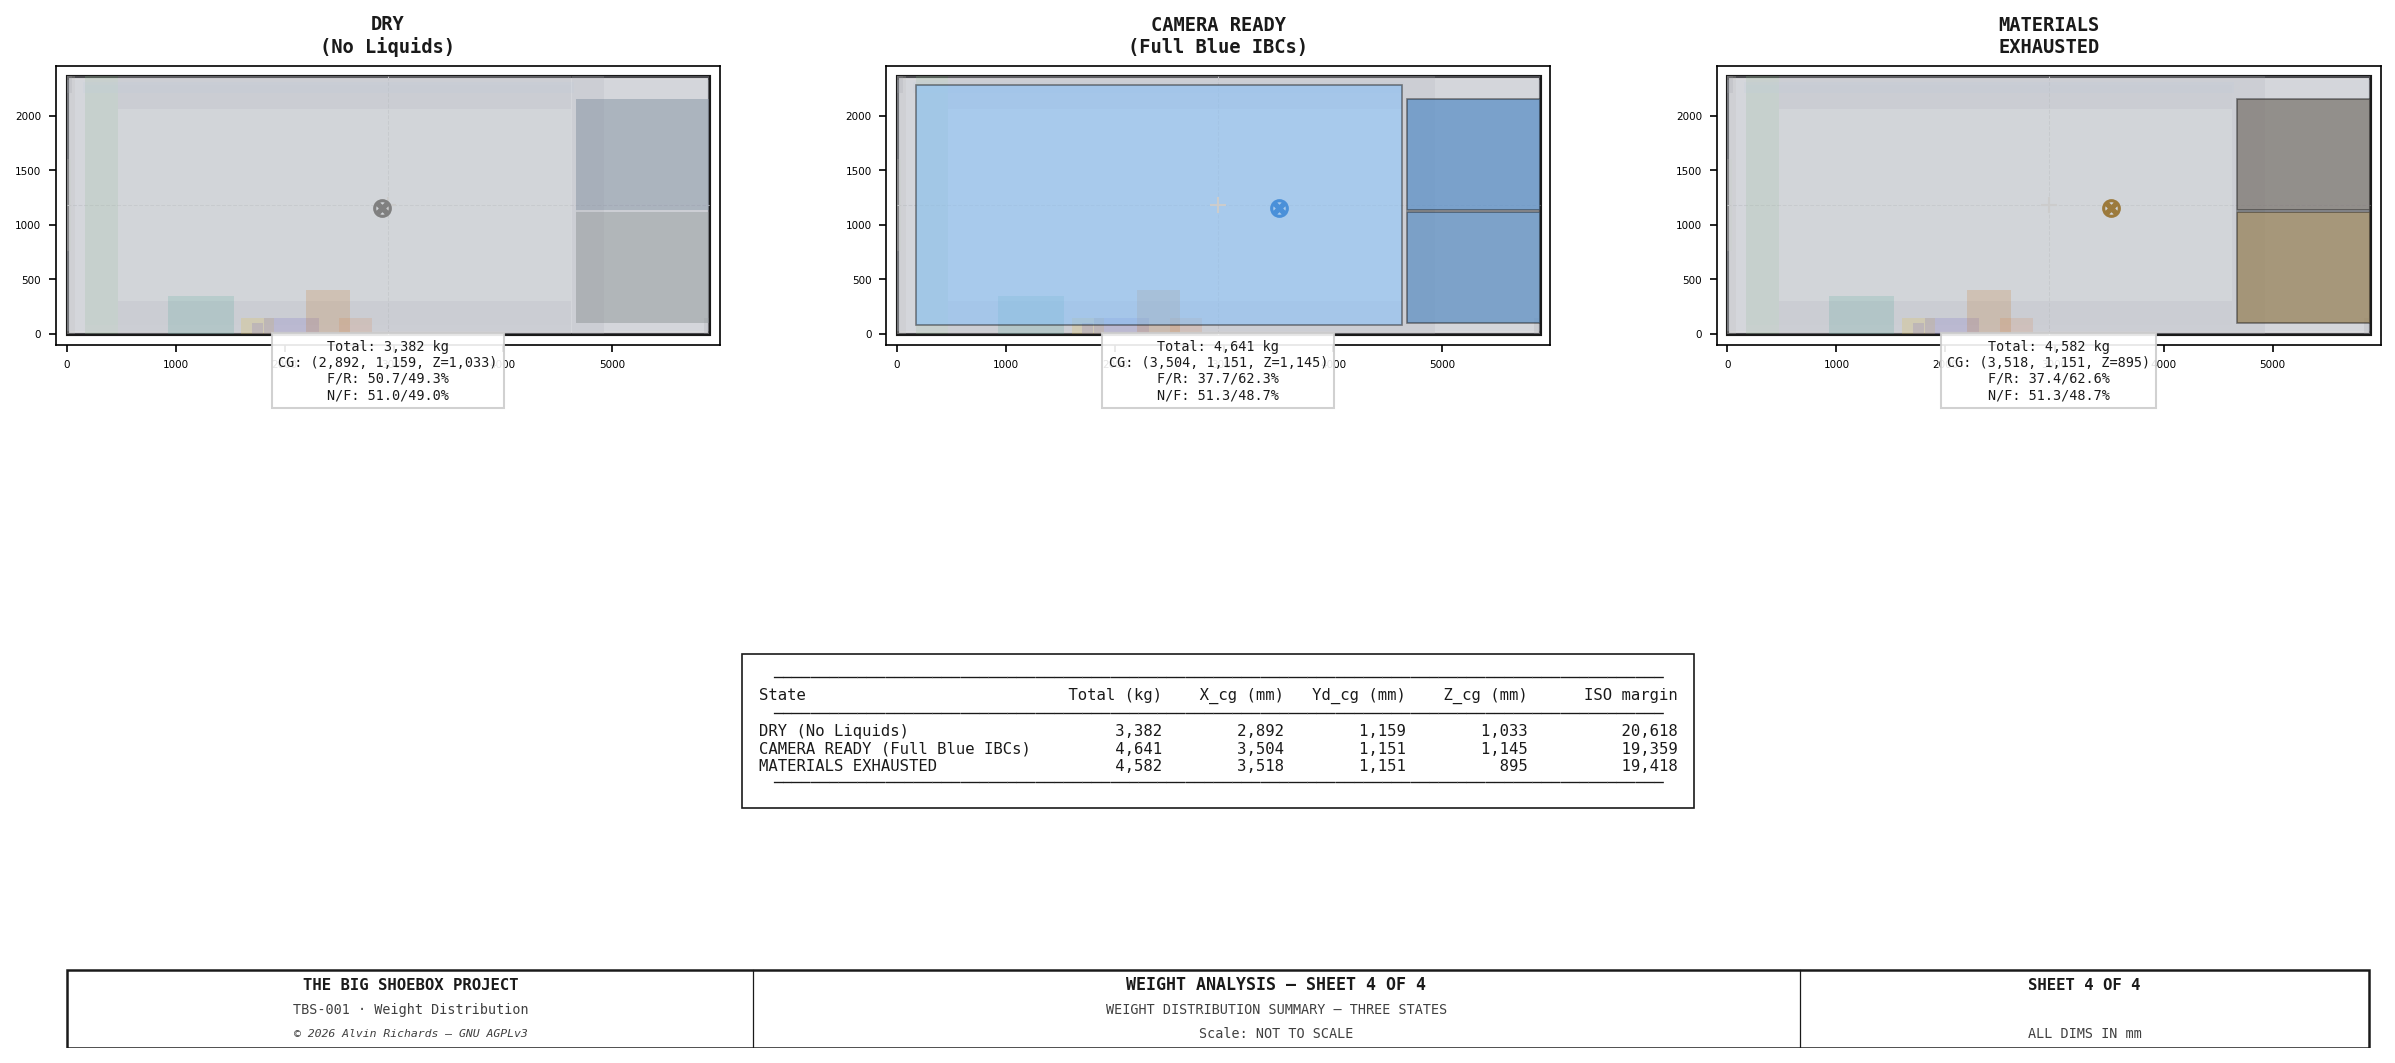
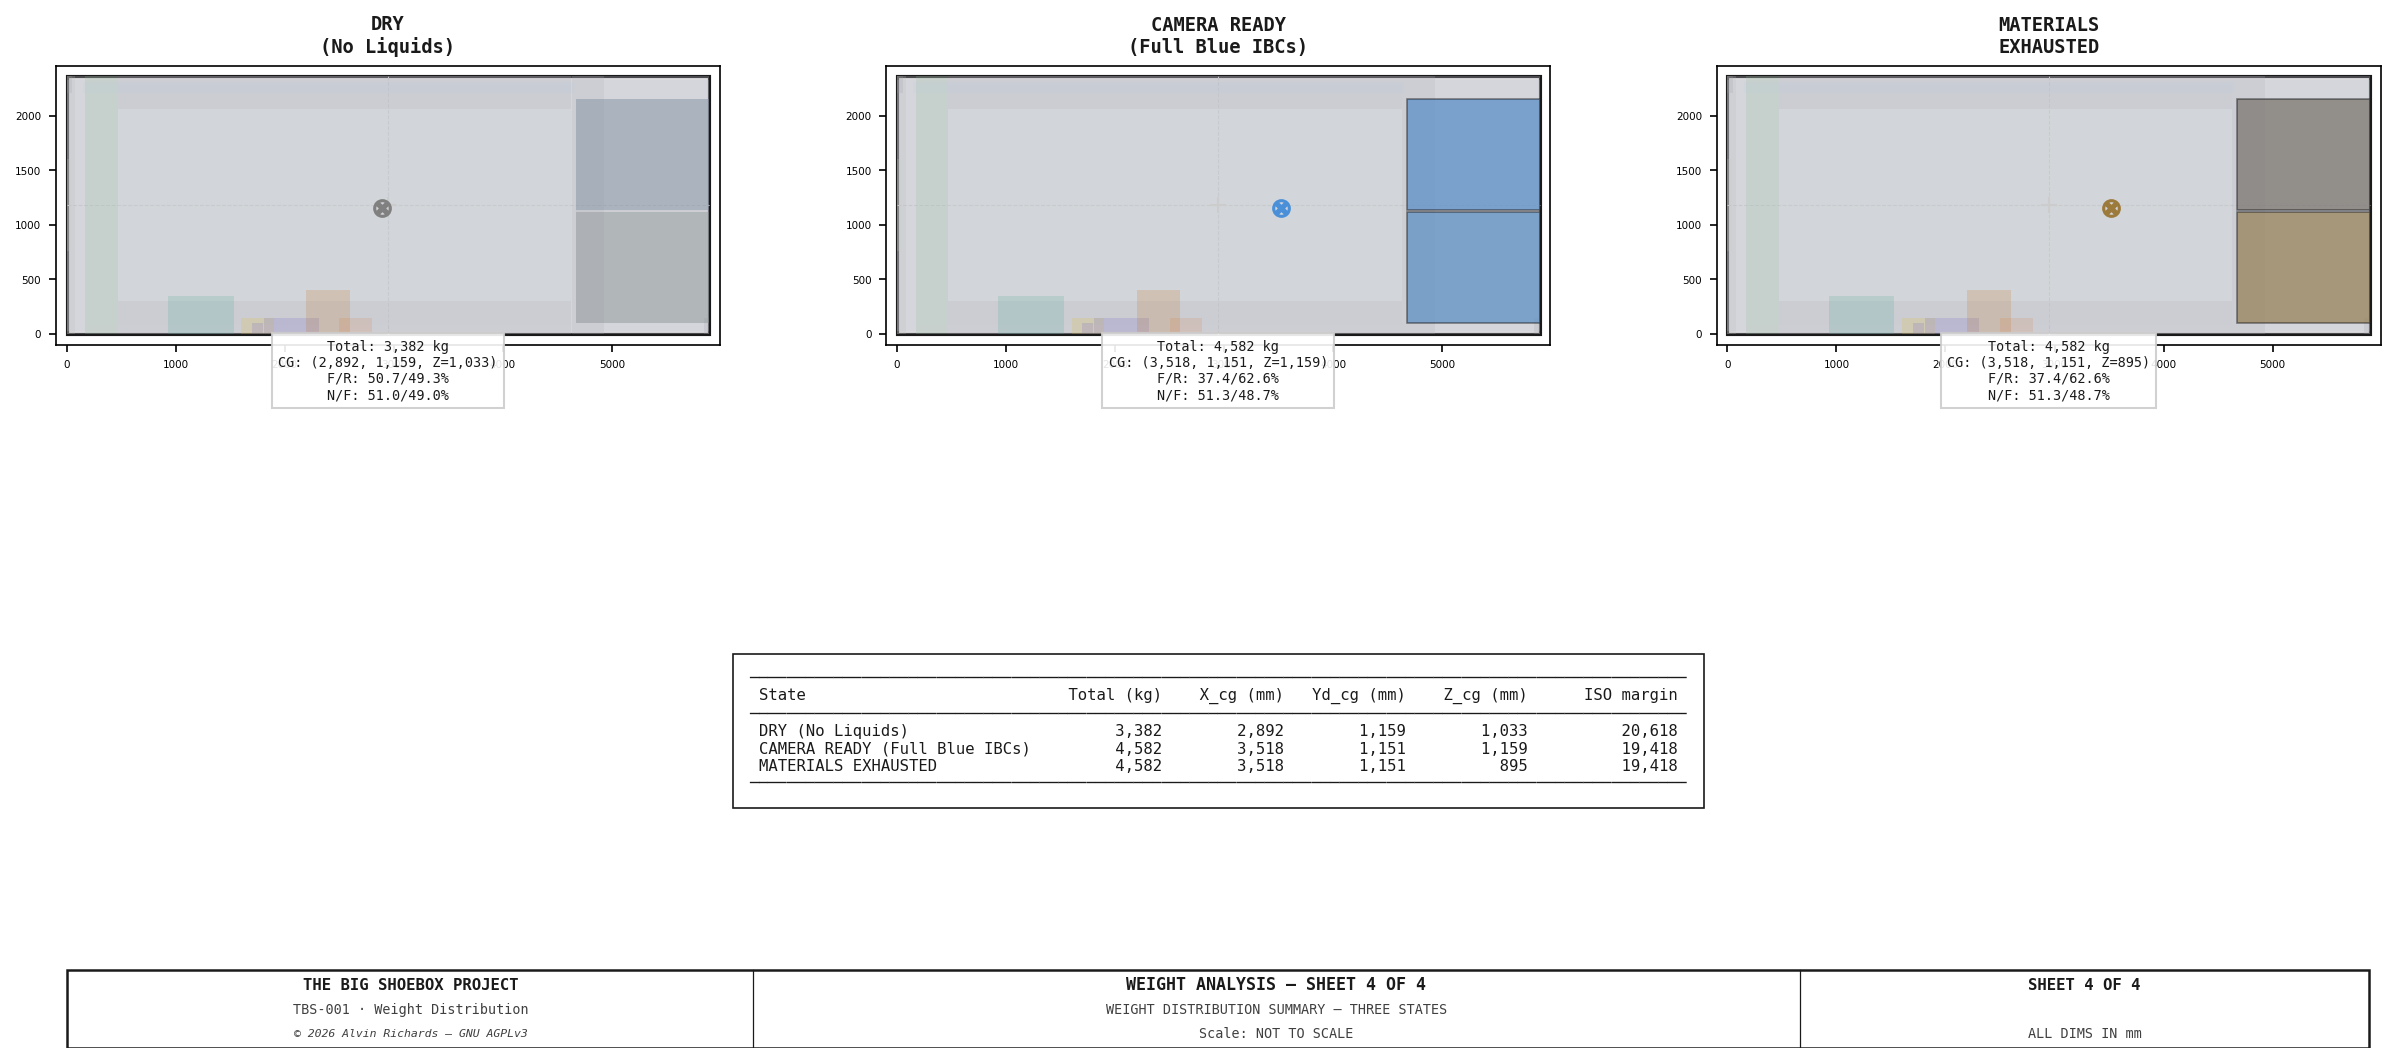
Fix weight analysis: water is a closed system, total unchanged between states
Remove tray water as separate liquid component from Camera Ready state.
The 1,200 kg of water is conserved — it moves from Blue IBCs through the
processing tray into Brown/Waste IBCs. Both loaded states now correctly
show 4,582 kg total. The only difference between states is the vertical
CG (Z: 1,159 → 895 mm) as water migrates from top to bottom tier.

Changed region(s): [[0.3708, 0.0621, 0.5871, 0.3104], [0.6797, 0.683, 0.7106, 0.714]]

diff --git a/generate_weight_analysis.py b/generate_weight_analysis.py
@@ -399,13 +399,6 @@ def build_components():
                   IBC_H_600, IBC_H_STK, color=C_BLUE_IBC,
                   states=("ready",),
                   calc_note="600L clean wash water (top tier)"),
-        Component("Tray water (ready)", "liquid", _processing_tray_water_kg(),
-                  PROC_TRAY_X_L, PROC_TRAY_X_R,
-                  PROC_TRAY_YD_NEAR, PROC_TRAY_YD_FAR,
-                  0, 6, color="#80C0FF",
-                  states=("ready",),
-                  calc_note="6mm flood depth over tray area"),
-
         # ── Liquids — Materials Exhausted (water in bottom-tier IBCs) ────
         Component("Brown IBC-3 water", "liquid", 600.0,
                   IBC_COL_X, IBC_COL_X + IBC_W,
@@ -869,10 +862,10 @@ def sheet4(components):
     ax_table.axis("off")
 
     table_lines = [
-        "─" * 95,
+        "─" * 100,
         f"{'State':<30} {'Total (kg)':>12} {'X_cg (mm)':>12} "
         f"{'Yd_cg (mm)':>12} {'Z_cg (mm)':>12}  {'ISO margin':>14}",
-        "─" * 95,
+        "─" * 100,
     ]
     for (state, label, _), (x_cg, yd_cg, z_cg, total) in zip(states, cg_points):
         clean_label = label.replace("\n", " ")
@@ -880,7 +873,7 @@ def sheet4(components):
         table_lines.append(
             f"{clean_label:<30} {total:>12,.0f} {x_cg:>12,.0f} "
             f"{yd_cg:>12,.0f} {z_cg:>12,.0f}  {margin:>14,.0f}")
-    table_lines.append("─" * 95)
+    table_lines.append("─" * 100)
     table_text = "\n".join(table_lines)
     ax_table.text(0.5, 0.5, table_text, ha="center", va="center",
                   fontsize=7.5, color=C_OUT, **_FONT,

diff --git a/weight-distribution-report.md b/weight-distribution-report.md
@@ -104,16 +104,16 @@ the single largest source of uncertainty in the structural weight.
 ### 4.1 Camera Ready (Full Blue IBCs)
 
 All wash water loaded in the two top-tier Blue IBCs. Bottom-tier Brown and
-Waste IBCs are empty. Processing tray flooded to 6mm depth.
+Waste IBCs are empty. Processing tray is empty (water is pumped to the tray
+during processing, not pre-loaded).
 
 | Liquid | Volume (L) | Weight (kg) | Position | Tier |
 |--------|-----------|------------|----------|------|
 | Blue IBC-1 water | 600 | 600 | X=4,674–5,893, Yd=100–1,116 | Top (Z=1,010–2,020) |
 | Blue IBC-2 water | 600 | 600 | X=4,674–5,893, Yd=1,141–2,157 | Top (Z=1,010–2,020) |
-| Processing tray | 59 | 59 | X=170–4,629, Yd=80–2,280 | Floor (Z=0–6) |
-| **Total liquid** | **1,259** | **1,259** | | |
+| **Total liquid** | **1,200** | **1,200** | | |
 
-**Total loaded weight: 4,641 kg** (3,382 dry + 1,259 liquid)
+**Total loaded weight: 4,582 kg** (3,382 dry + 1,200 liquid)
 
 ### 4.2 Materials Exhausted (Ready for Resupply)
 
@@ -136,7 +136,7 @@ Brown/Waste IBCs.
 | State | Total (kg) | X_cg (mm) | Yd_cg (mm) | Z_cg (mm) | Front/Rear | Near/Far |
 |-------|-----------|-----------|------------|-----------|------------|----------|
 | Dry | 3,382 | 2,892 | 1,159 | 1,033 | 50.7/49.3% | 51.0/49.0% |
-| Camera Ready | 4,641 | 3,504 | 1,151 | 1,145 | 37.7/62.3% | 51.3/48.7% |
+| Camera Ready | 4,582 | 3,518 | 1,151 | 1,159 | 37.4/62.6% | 51.3/48.7% |
 | Materials Exhausted | 4,582 | 3,518 | 1,151 | 895 | 37.4/62.6% | 51.3/48.7% |
 
 ---
@@ -153,7 +153,7 @@ category. The right end zone (IBC stack area) is the densest zone.
 ### Sheet 2 — Camera Ready Distribution
 
 Weight distribution with full Blue IBCs (top tier) and flooded processing
-tray. CG marker shows the loaded center of gravity at X=3,504, Yd=1,151.
+tray. CG marker shows the loaded center of gravity at X=3,518, Yd=1,151.
 Quadrant weights show the rear-heavy bias from the IBC stack.
 
 ![TBS-001 — Weight Analysis: Camera Ready](assets/weight-analysis-sheet2.png)
@@ -161,15 +161,15 @@ Quadrant weights show the rear-heavy bias from the IBC stack.
 ### Sheet 3 — Materials Exhausted Distribution
 
 Water has migrated from top-tier Blue IBCs to bottom-tier Brown/Waste
-IBCs. Processing tray is drained (59 kg less total liquid). The vertical
-CG drops by 250mm (Z: 1,145 → 895 mm) as water moves to bottom tier.
+IBCs. Total weight is unchanged (closed water system). The vertical
+CG drops by 264mm (Z: 1,159 → 895 mm) as water moves to bottom tier.
 
 ![TBS-001 — Weight Analysis: Materials Exhausted](assets/weight-analysis-sheet3.png)
 
 ### Sheet 4 — Summary Comparison
 
 Three-state side-by-side comparison with CG positions and summary table.
-The dry state is nearly balanced; liquid states shift CG rearward by ~612mm.
+The dry state is nearly balanced; liquid states shift CG rearward by ~626mm.
 
 ![TBS-001 — Weight Analysis: Summary Comparison](assets/weight-analysis-sheet4.png)
 
@@ -184,7 +184,7 @@ All three states are well within the ISO 24,000 kg maximum gross weight:
 | State | Total (kg) | Margin (kg) | Utilization |
 |-------|-----------|------------|-------------|
 | Dry | 3,382 | 20,618 | 14.1% |
-| Camera Ready | 4,641 | 19,359 | 19.3% |
+| Camera Ready | 4,582 | 19,418 | 19.1% |
 | Materials Exhausted | 4,582 | 19,418 | 19.1% |
 
 The container operates at less than 20% of its rated capacity in all states.
@@ -204,12 +204,12 @@ side.
 The dry state is nearly balanced front/rear (50.7/49.3%), with CG at
 X=2,892mm (just past the container midpoint of 2,947mm).
 
-When liquids are added, the CG shifts rearward to X=3,504mm (612mm past
-the dry CG). This creates a 37.7/62.3% front/rear split. The rear bias
+When liquids are added, the CG shifts rearward to X=3,518mm (626mm past
+the dry CG). This creates a 37.4/62.6% front/rear split. The rear bias
 is caused by 1,200 kg of water concentrated in the IBC stack zone
 (X=4,674–5,893mm).
 
-**Transport implication:** When loaded, the container's CG is at 59.4%
+**Transport implication:** When loaded, the container's CG is at 59.7%
 of the length from the cargo door end. For trailer placement, the container
 should be positioned so the rear (sealed) end sits over or near the trailer
 axle(s) to balance the load.
@@ -218,16 +218,17 @@ axle(s) to balance the load.
 
 The most significant finding is the **vertical CG migration** between states:
 
-- **Camera Ready:** Z_cg = 1,145 mm (1,200 kg of water in top-tier IBCs + 59 kg in tray)
-- **Materials Exhausted:** Z_cg = 895 mm (1,200 kg of water in bottom-tier IBCs, tray drained)
-- **ΔZ = −250 mm** (CG drops 250mm during a session)
+- **Camera Ready:** Z_cg = 1,159 mm (1,200 kg of water in top-tier IBCs)
+- **Materials Exhausted:** Z_cg = 895 mm (1,200 kg of water in bottom-tier IBCs)
+- **ΔZ = −264 mm** (CG drops 264mm during a session)
 
 This is an inherent self-stabilizing feature of the 2×2 IBC stack design.
-As clean water (top tier) is consumed and waste water accumulates (bottom
-tier), the system's center of gravity drops, improving stability over the
-course of a session. Total mass decreases slightly (59 kg tray water
-drained) but the dominant effect is the vertical redistribution of 1,200 kg
-from top tier to bottom tier.
+The water system is closed — 1,200 kg of water is loaded into the Blue IBCs
+and redistributed during processing. No water is added or lost; it simply
+migrates from top-tier Blue IBCs through the processing tray into bottom-tier
+Brown/Waste IBCs. Total mass remains constant at 4,582 kg throughout a
+session, but the vertical redistribution of 1,200 kg from top tier to
+bottom tier drops the center of gravity by 264mm, improving stability.
 
 ### 6.5 Walkway Weight Sensitivity
 
